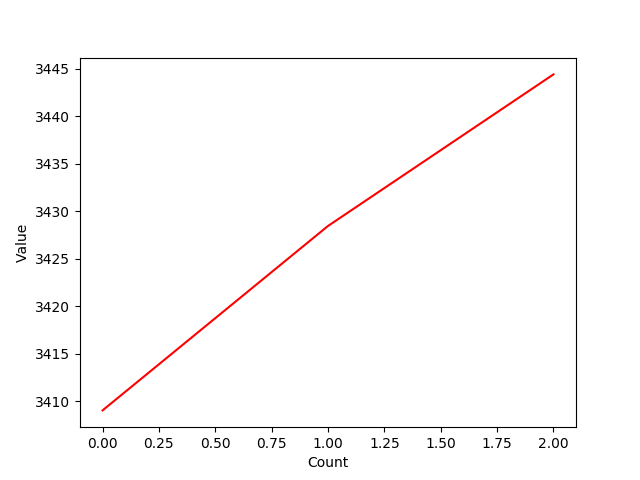
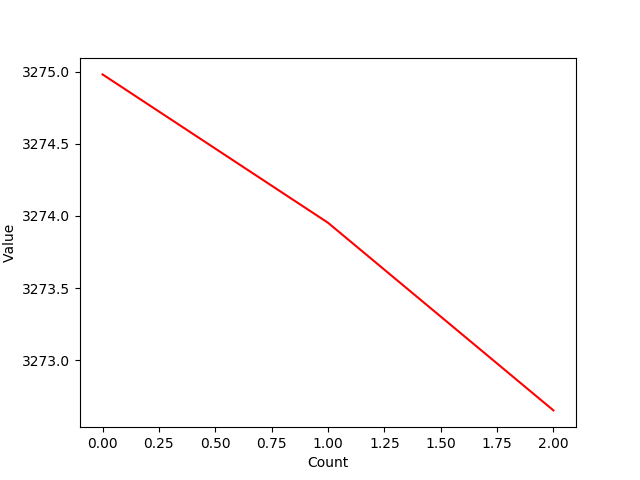
Automated Commision

diff --git a/prediction/sequential.py b/prediction/sequential.py
@@ -51,7 +51,7 @@ if __name__ == "__main__":
             for j in range(result.shape[1]):
                 prediction = rescale(result[i][j], timeseries.minimum(), timeseries.maximum())
                 # compare the distance of the last close price and the moving average trend line to add bias to the prediction
-                prediction += bias_momentum * vix_average
+                prediction -= (vix_average * bias_momentum)
         prediction_matrix.append(prediction)
         raw = timeseries.raw_matrix()
         for i in range(0, len(raw)):
